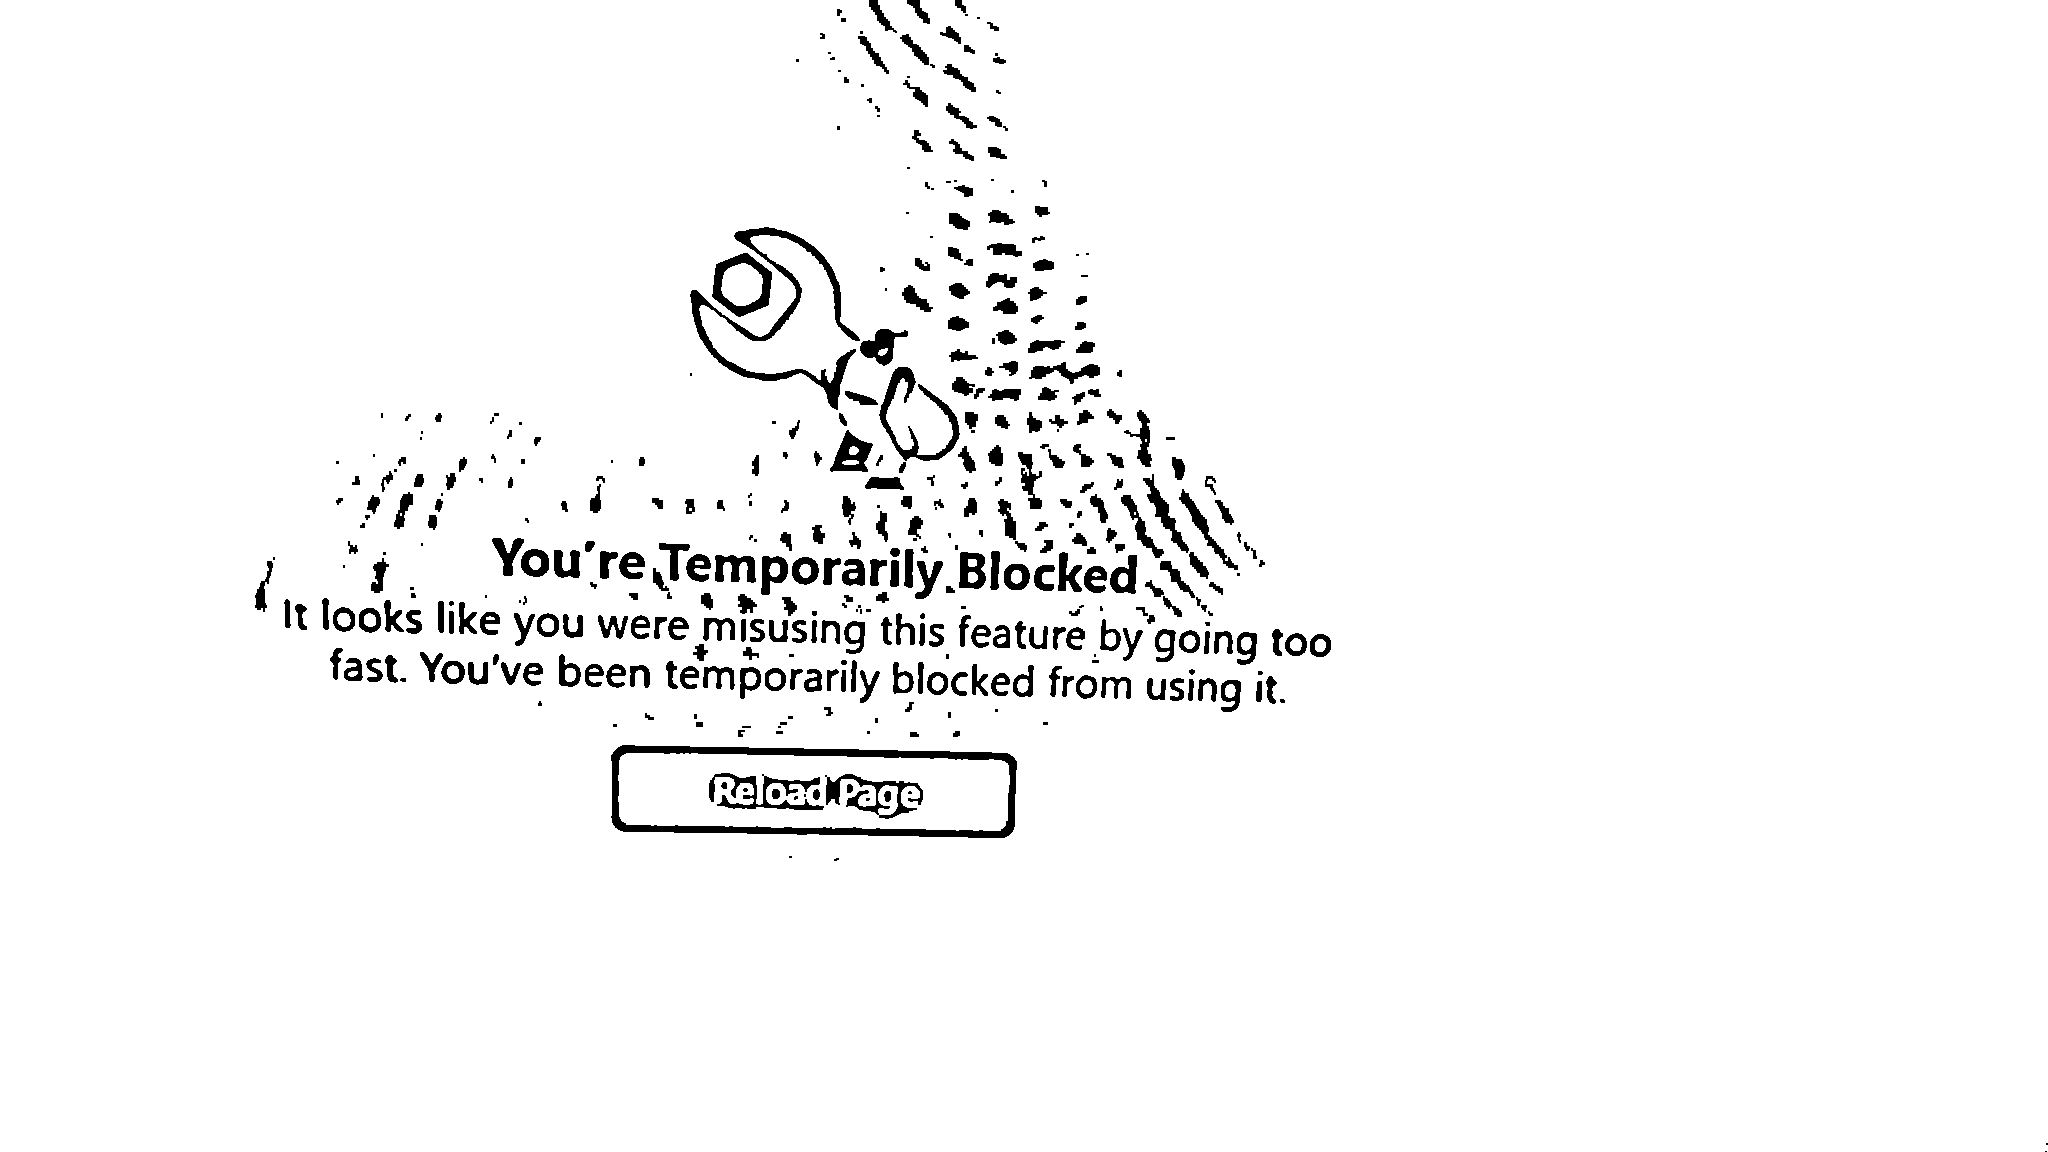
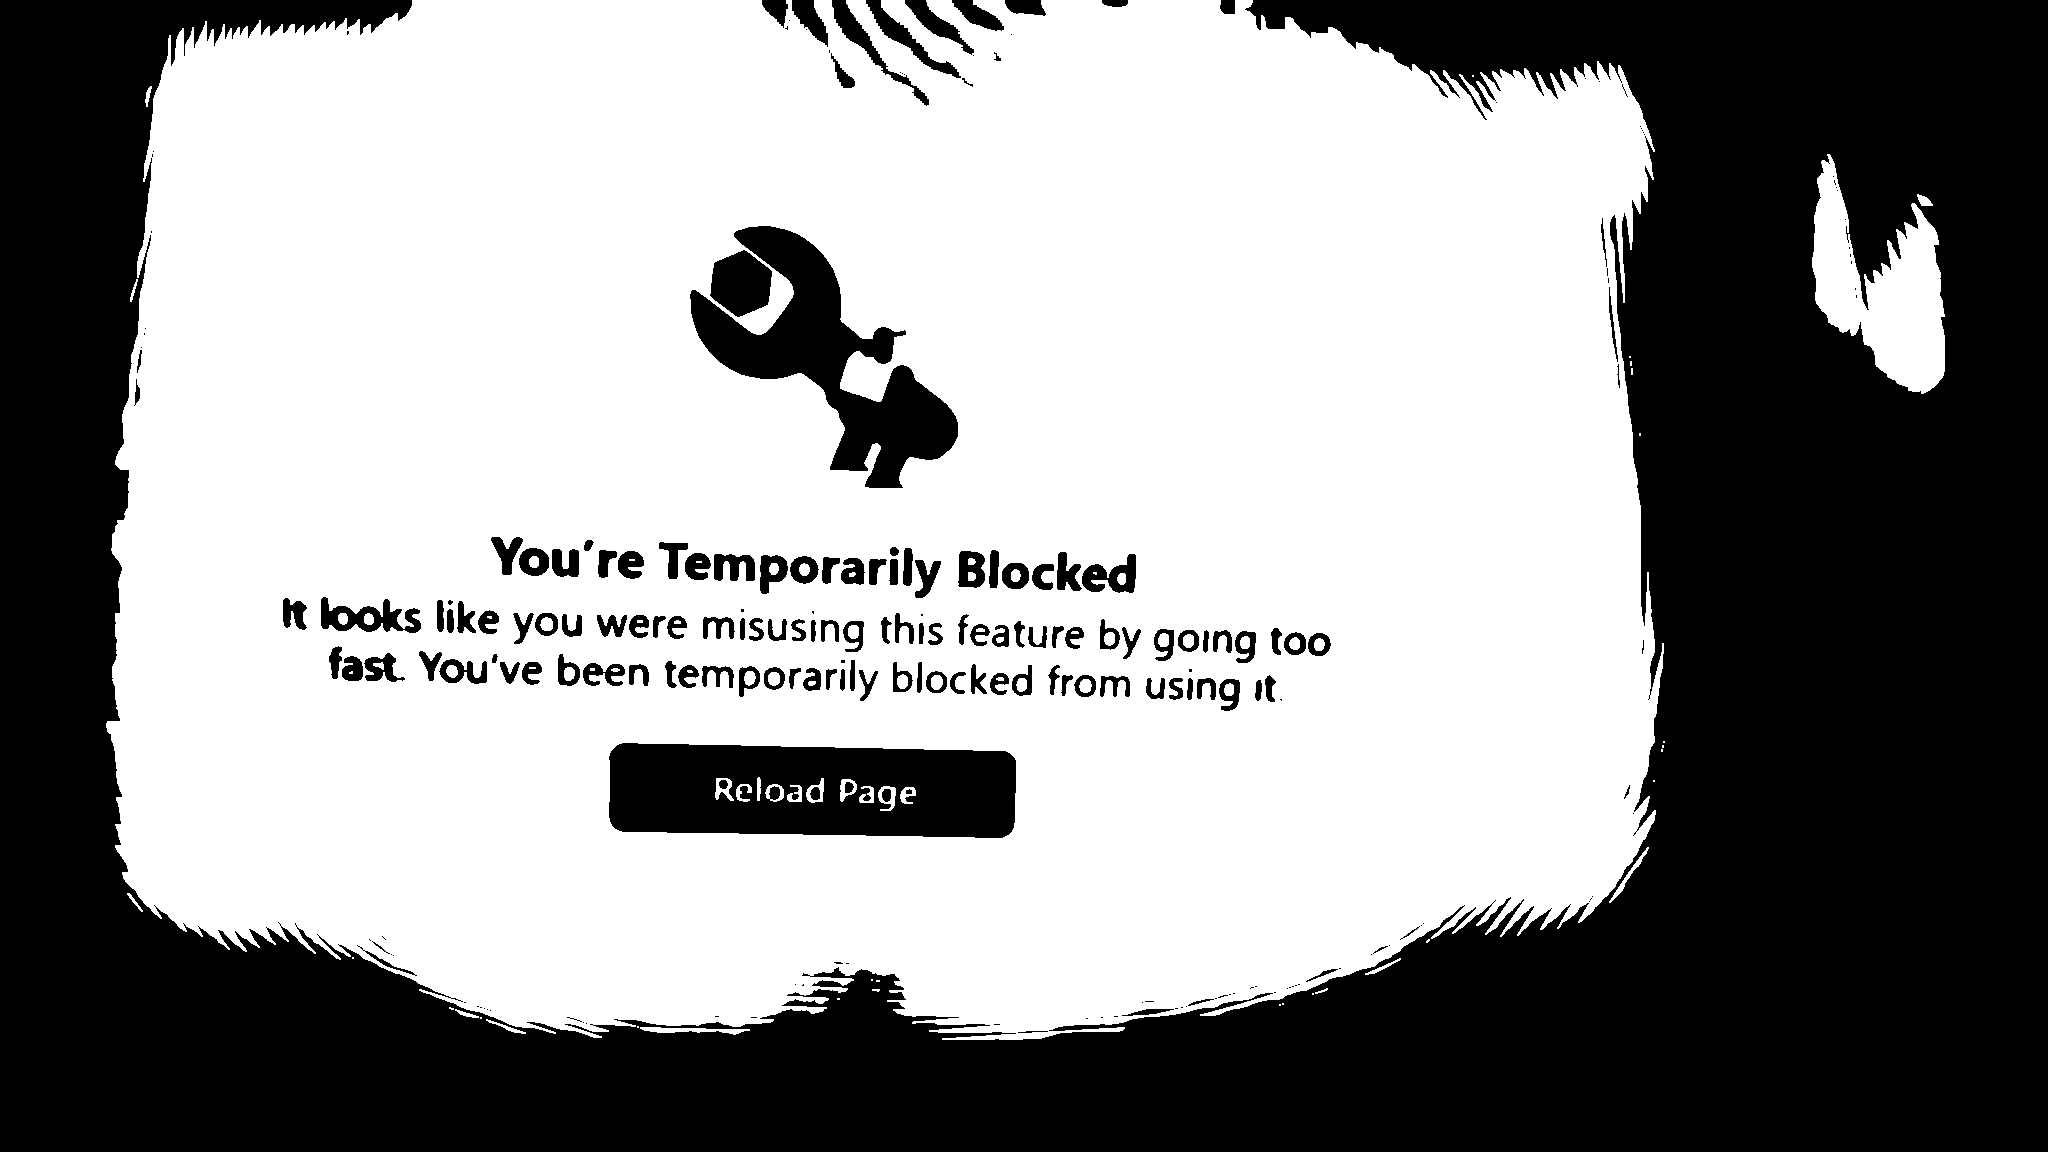
improved enhancer.py quality

diff --git a/enhancer.py b/enhancer.py
@@ -17,7 +17,7 @@ import shutil
 import tempfile
 from pathlib import Path
 from typing import Iterable, List, Tuple
-
+import math
 import cv2
 import numpy as np
 from PIL import Image
@@ -28,6 +28,40 @@ logging.basicConfig(
     level=logging.INFO,
     format="%(asctime)s [%(levelname)s] %(message)s",
 )
+
+
+
+def assess_quality(gray: np.ndarray) -> dict:
+    # basic metrics that predict OCR-readiness
+    blur = cv2.Laplacian(gray, cv2.CV_64F).var()     # sharpness
+    contrast = float(gray.std())                     # global contrast
+    # entropy (no skimage needed)
+    hist = cv2.calcHist([gray],[0],None,[256],[0,256]).ravel()
+    hist /= max(hist.sum(), 1.0)
+    entropy = float(-np.sum(hist[hist>0]*np.log2(hist[hist>0])))
+    return {"blur": blur, "contrast": contrast, "entropy": entropy}
+
+def enhance_gray_binary(gray: np.ndarray, strong: bool = False) -> np.ndarray:
+    # your existing binary pipeline with tiny tweaks
+    h_val = 15 if not strong else 25
+    den = cv2.fastNlMeansDenoising(gray, h=h_val, templateWindowSize=7, searchWindowSize=21)
+    clahe = cv2.createCLAHE(clipLimit=(4.0 if strong else 3.0), tileGridSize=(8,8))
+    eq = clahe.apply(den)
+    # gentler unsharp
+    blur = cv2.GaussianBlur(eq, (0,0), sigmaX=1.0)
+    sharp = cv2.addWeighted(eq, 1.25, blur, -0.25, 0)
+    # choose threshold: Otsu works better on clean docs
+    _, th = cv2.threshold(sharp, 0, 255, cv2.THRESH_BINARY + cv2.THRESH_OTSU)
+    # light morphology only
+    kern = cv2.getStructuringElement(cv2.MORPH_RECT, (2,2))
+    opened = cv2.morphologyEx(th, cv2.MORPH_OPEN, kern, iterations=1)
+    return opened
+
+def enhance_gray_mild(gray: np.ndarray) -> np.ndarray:
+    # for already good images: keep grayscale, mild unsharp
+    blur = cv2.GaussianBlur(gray, (0,0), 0.8)
+    mild = cv2.addWeighted(gray, 1.15, blur, -0.15, 0)
+    return mild
 
 def read_image_bgr(path: Path) -> np.ndarray:
     img = cv2.imread(str(path), cv2.IMREAD_COLOR)
@@ -89,11 +123,21 @@ def enhance_gray(gray: np.ndarray, strong: bool = False) -> np.ndarray:
 
     return closed
 
-def enhance_file(path: Path, strong: bool = False) -> np.ndarray:
+def enhance_file(path: Path, strong: bool = False, mode: str = "auto") -> np.ndarray:
     bgr = read_image_bgr(path)
     gray = to_gray(bgr)
     gray = auto_scale(gray)
-    return enhance_gray(gray, strong=strong)
+
+    if mode == "gray":
+        return enhance_gray_mild(gray)
+    if mode == "binary":
+        return enhance_gray_binary(gray, strong=strong)
+
+    # AUTO: decide based on metrics
+    q = assess_quality(gray)
+    # thresholds tuned for receipts; adjust if needed
+    already_good = (q["blur"] > 800 and q["contrast"] > 60 and q["entropy"] > 5.0)
+    return enhance_gray_mild(gray) if already_good else enhance_gray_binary(gray, strong=strong)
 
 def iter_inputs(files_and_dirs: Iterable[str]) -> List[Path]:
     out: List[Path] = []
